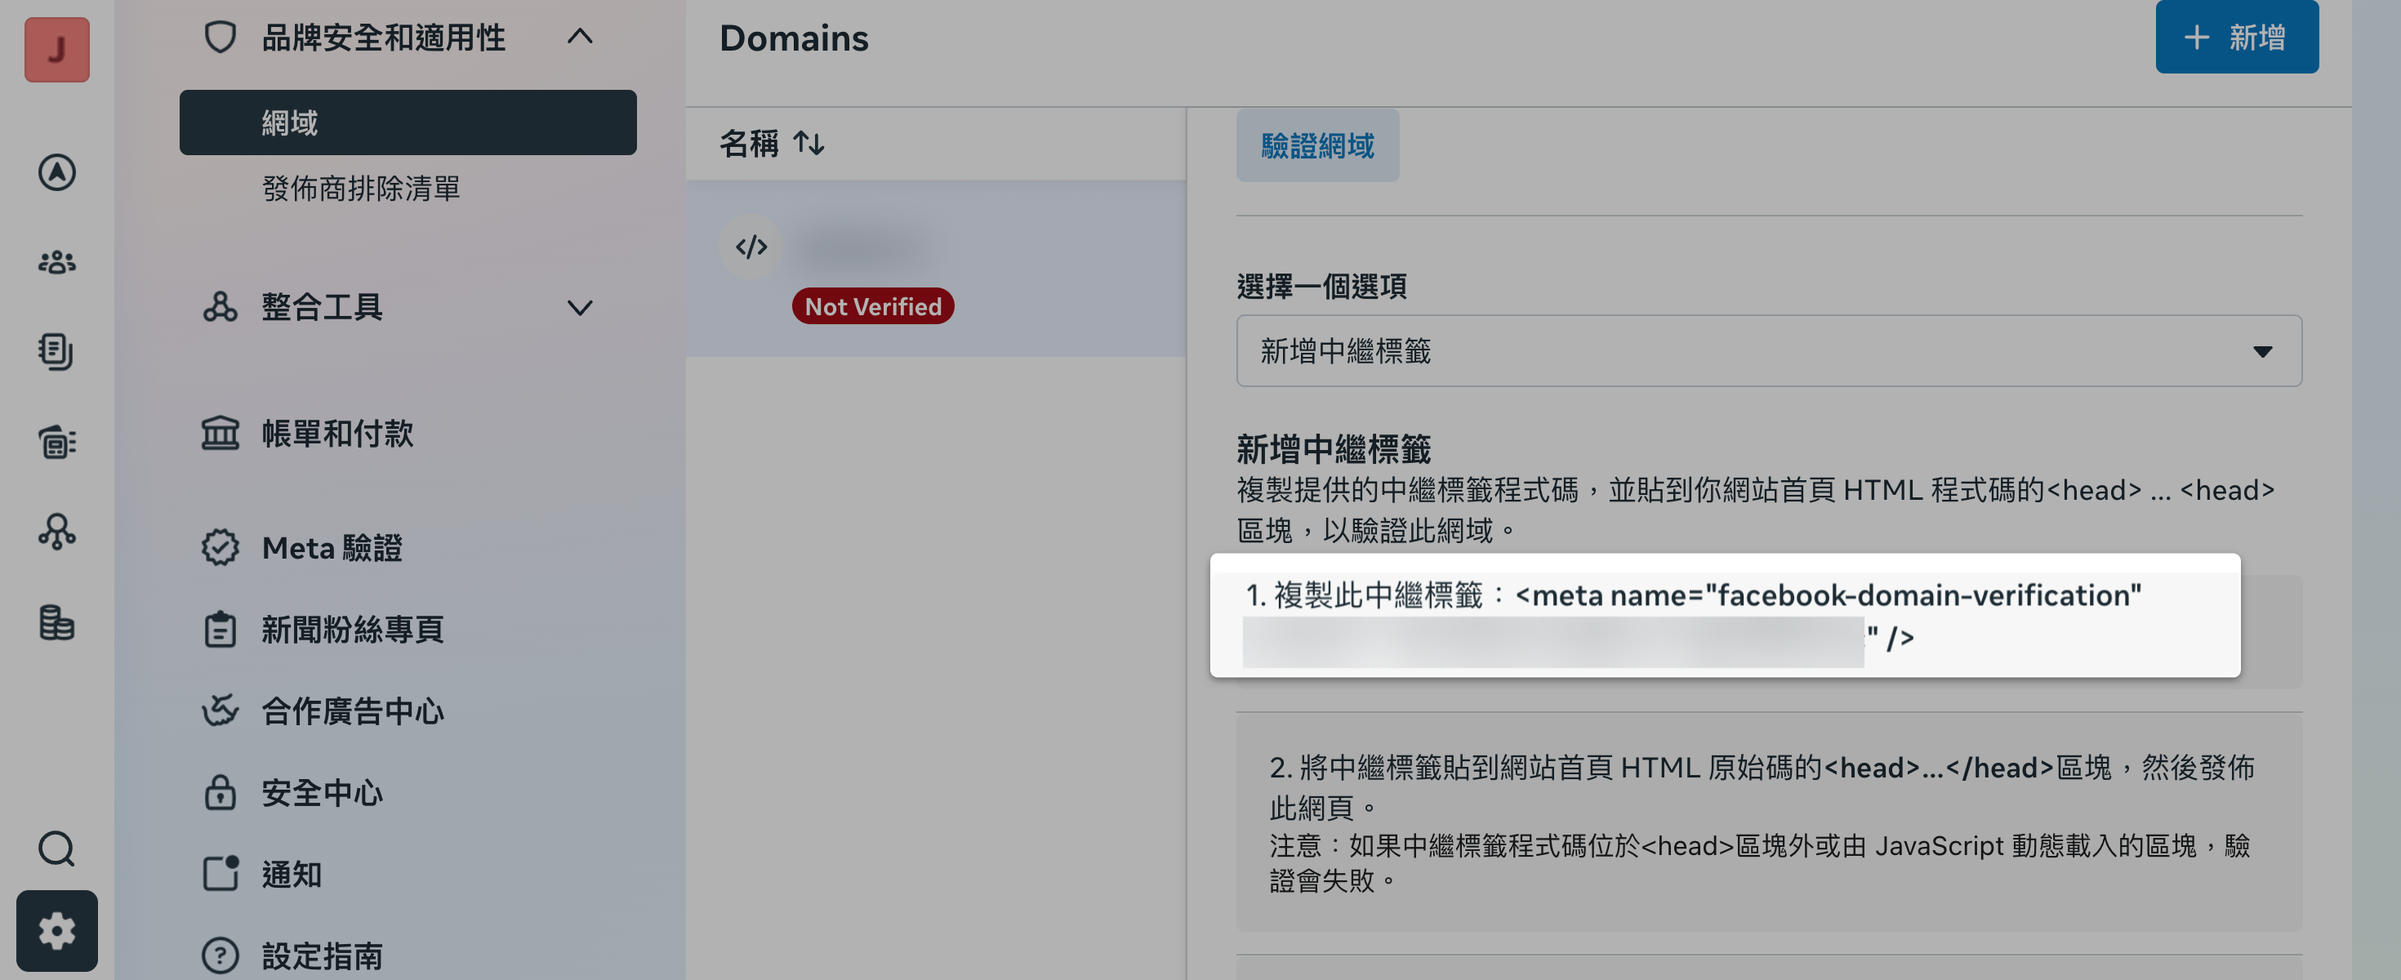
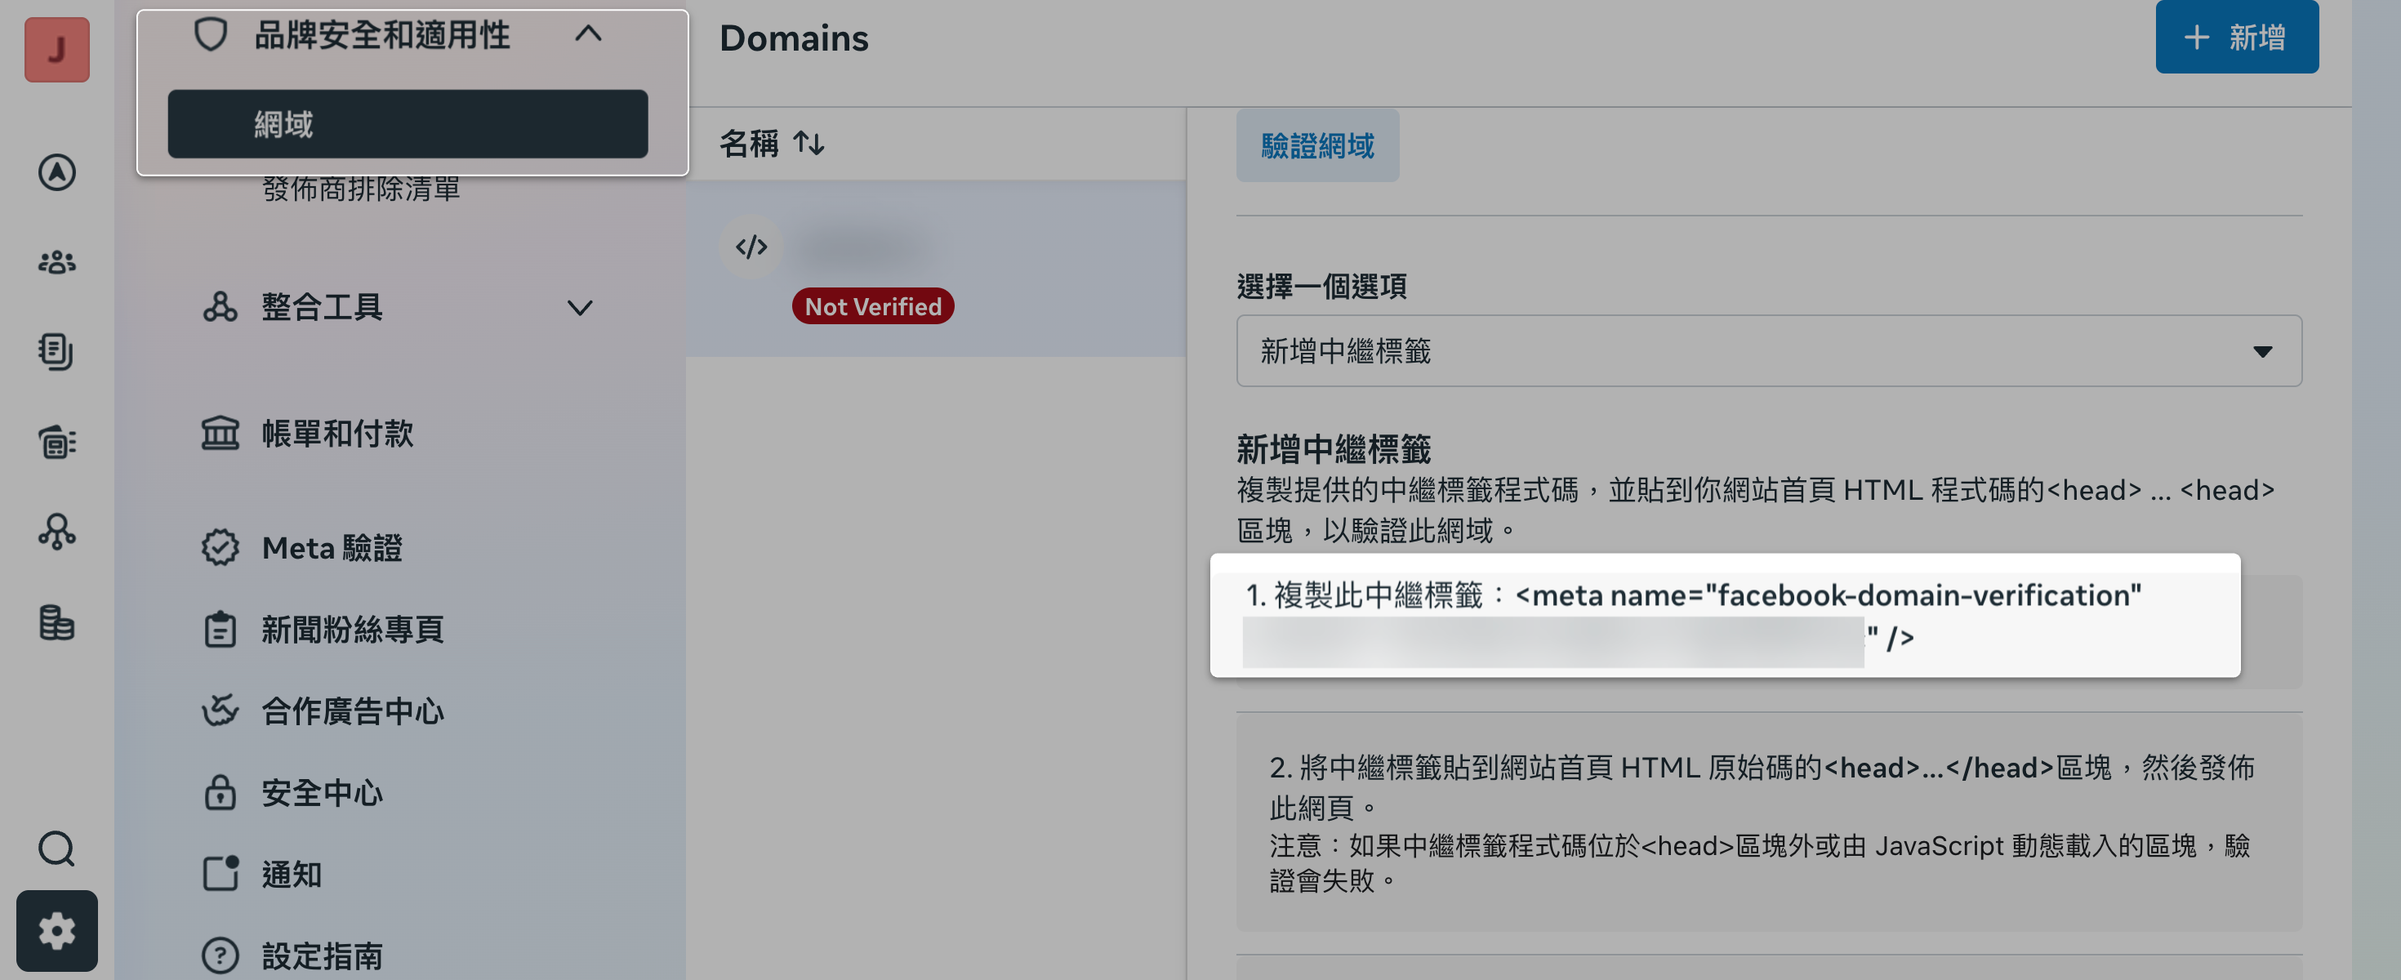
update

Changed region(s): [[0.0619, 0.0925, 0.2786, 0.185], [0.0619, 0.0, 0.2167, 0.0617]]

diff --git a/docs/ec/website-management/設定網站安全性.md b/docs/ec/website-management/設定網站安全性.md
@@ -2,7 +2,7 @@
 title: 設定網站安全性
 description: 設定網站及後台登入安全，包含會員密碼規則、個資隱碼、管理員IP白名單與二階段驗證等。
 created:
-last_modified: 2026-02-07
+last_modified: 2026-06-09 13:58
 lang: zh-TW
 permalink:
 type: tutorial
@@ -86,6 +86,258 @@ hide:
 { .subtitle }
 
 ![](../../assets/images/ec-管理中心-安全性設定.png){ .hero-page }
+
+
+# 安全性設定：保護後台帳號與顧客資料 { #intro-security }
+
+在「安全性設定」頁面集中管理後台登入防護與顧客資料保護，從 IP 白名單、自動登出到網站密碼，一頁完成你的網站資安設定。
+{ .subtitle }
+
+![安全性設定頁面](../assets/images/website-management-security-settings-hero.png){ .hero-page }
+
+「安全性設定」是 CYBERBIZ 後台的資安控制中心，協助你降低帳號被盜用、顧客個資外洩與惡意造訪的風險。頁面位於後台「管理中心」→「安全性設定」，並分為兩個分頁：「管理員登入」負責保護你與員工登入後台的安全，「會員安全」負責保護網站與顧客資料。
+
+!!! info "提示"
+    多數區塊需要你的後台帳號具備「設置」權限才會顯示；若你看不到某個區塊，通常是權限或方案的關係，詳見[使用前提與限制][prerequisites-security]{ data-preview }。
+
+## 頁面功能總覽 { #overview-security }
+
+下表整理兩個分頁中的所有資安功能，方便你一眼掌握各功能用途與開通條件：
+
+| 分頁 | 功能 | 用途 | 開通條件 |
+| :-- | :-- | :-- | :-- |
+| 管理員登入 | IP 白名單 | 只允許名單內的 IP 位址登入後台 | 多數方案皆內建 |
+| 管理員登入 | 瀏覽器 Cookie 驗證 IP 白名單 | 避免同一瀏覽器 IP 跳動時被強制重新登入 | 所有方案 |
+| 管理員登入 | 自動登出時間 | 後台閒置超過設定時間自動登出 | 所有方案 |
+| 管理員登入 | reCAPTCHA 驗證 | 後台登入加上機器人驗證 | 所有方案 |
+| 管理員登入 | 二階段驗證 | 登入時搭配驗證器動態驗證碼 | 所有方案 |
+| 管理員登入 | 管理員密碼規則 | 規範管理員密碼的長度與組成 | 加值功能（需聯繫客服開通） |
+| 會員安全 | 網站密碼 | 顧客需輸入密碼才能瀏覽網站 | 所有方案 |
+| 會員安全 | 會員密碼規則 | 規範會員密碼的長度與組成 | 加值功能（需聯繫客服開通） |
+| 會員安全 | 會員個資部分隱碼 | 將顧客姓名、手機、地址等以隱碼遮蔽 | 加值功能（需聯繫客服開通） |
+| 會員安全 | 訪問限制地區黑名單 | 封鎖特定地區顧客造訪前台 | 企業版／跨境電商方案 |
+
+!!! note "註釋"
+    「分店人員」帳號登入時只會看到「管理員登入」分頁，不會顯示「會員安全」分頁。
+
+## 使用前提與限制 { #prerequisites-security }
+
+開始設定前，請先確認下列條件：
+
+- [x] **「設置」權限**：除了二階段驗證（每位管理員都能為自己設定）之外，其餘區塊都需要你的帳號在「網站權限」中具備「設置」權限才能檢視與編輯。
+- [x] **方案／加值開通**：部分區塊需對應方案或加值功能才會出現，詳見下方折疊對照。
+- [x] **先確認自己的 IP**：要使用 IP 白名單前，建議先在區塊上方查看「您目前的 IP」，避免把自己擋在門外。
+
+??? plan "各功能的方案與開通條件"
+    | 功能 | 開通條件 |
+    | :-- | :-- |
+    | IP 白名單 | 多數方案皆內建 |
+    | 瀏覽器 Cookie 驗證 IP 白名單 | 所有方案 |
+    | 自動登出時間 | 所有方案 |
+    | reCAPTCHA 驗證 | 所有方案 |
+    | 二階段驗證 | 所有方案 |
+    | 網站密碼 | 所有方案 |
+    | 管理員／會員密碼規則 | 加值功能，需聯繫 CYBERBIZ 客服開通 |
+    | 會員個資部分隱碼 | 加值功能，需聯繫 CYBERBIZ 客服開通 |
+    | 訪問限制地區黑名單 | 企業版，或跨境電商相關方案 |
+
+## 操作步驟 { #operate-security }
+
+以下依「管理員登入」與「會員安全」兩個分頁，分別說明各區塊的操作方式。前往後台「管理中心」→「安全性設定」後，點選上方分頁即可切換。
+
+### 管理員登入｜設定 IP 白名單 { #operate-security-ip-whitelist }
+
+啟用後，只有名單內的 IP 位址能登入後台，適合在固定辦公室或固定網路環境營運的商家。
+
+1. **進入分頁：** 在「安全性設定」頁面點選「管理員登入」分頁，找到「白名單」區塊。
+2. **確認目前 IP：** 區塊會顯示「您目前的 IP」，請先記下，稍後務必把它加入名單。
+3. **新增信任 IP：** 點擊 **「新增 IP」** ，在「增加 IP 位址」視窗輸入要放行的位址，按 **「增加」** 完成。[^ip-format]
+4. **啟用白名單：** 開啟「啟用白名單」開關。若你目前的 IP 不在名單內，系統會跳出提醒[^whitelist-lockout]，確認後才會生效。
+5. **管理名單：** 名單以表格列出（每頁 5 筆），點擊每列的刪除圖示可移除位址。
+
+[^ip-format]: 支援 IPv4、IPv6 與 CIDR 網段格式；格式錯誤時欄位會顯示「IP 位址格式錯誤」。
+[^whitelist-lockout]: 啟用提醒文字為「您目前的IP位址不在白名單內，啟用後將立即被登出無法登入後台，確認要啟用？」。若你刪除的是目前所在的 IP，系統同樣會再次確認，避免把自己鎖在門外。
+
+---
+
+### 管理員登入｜瀏覽器 Cookie 驗證 IP 白名單 { #operate-security-cookie-whitelist }
+
+這項功能與上方的 IP 白名單不同：它不是限制誰能登入，而是讓你把「會頻繁變動的可信任 IP」加入名單，避免在同一瀏覽器操作時因 IP 跳動而被強制重新登入。一般狀況不需設定。
+
+1. **進入分頁：** 在「管理員登入」分頁找到「瀏覽器 Cookie 驗證 IP 白名單」區塊。
+2. **判斷是否需要：** 只有在你的網路服務商導致 IP 位址頻繁跳動、造成反覆被登出時才需設定；一般情況可略過。
+3. **新增可信任 IP：** 點擊 **「新增 IP」** ，於「增加 IP 位址」視窗輸入位址，按 **「增加」** 完成。
+4. **啟用功能：** 開啟「啟用瀏覽器 Cookie 驗證 IP 白名單」開關即可。
+
+---
+
+### 管理員登入｜設定自動登出時間 { #operate-security-logout-timer }
+
+設定後台閒置多久就自動登出，降低電腦無人看管時被他人誤用的風險。
+
+1. **進入分頁：** 在「管理員登入」分頁找到「自動登出時間」區塊。
+2. **選擇時間：** 從五個選項中擇一：**4小時**、**8小時**、**1天**、**3天**、**7天**。
+3. **儲存設定：** 點擊 **「更改」** 套用。
+
+!!! tip "技巧"
+    若多人共用電腦或在公共空間操作後台，建議選擇較短的閒置時間（如 4 小時），安全性較高。
+
+---
+
+### 管理員登入｜後台登入 reCAPTCHA 驗證 { #operate-security-recaptcha }
+
+在後台登入頁加上 Google reCAPTCHA 機器人驗證，減少自動化腳本嘗試破解帳號的風險。
+
+1. **進入分頁：** 在「管理員登入」分頁找到「reCAPTCHA 驗證」區塊。
+2. **開啟驗證：** 開啟「啟用 reCAPTCHA 驗證」開關，設定即時生效。下次登入後台時就會出現 reCAPTCHA 驗證。
+
+---
+
+### 管理員登入｜二階段驗證 { #operate-security-2fa }
+
+二階段驗證（2FA）是防止帳號被盜用最有效的防線：即使密碼外洩，沒有手機驗證器產生的動態驗證碼也無法登入。
+
+1. **進入分頁：** 在「管理員登入」分頁找到「二階段驗證設定」區塊。
+2. **開啟功能：** 開啟「啟用二階段驗證步驟。」開關，畫面會展開「安裝步驟」。
+3. **安裝驗證器：** 在手機安裝 Authenticator 應用程式（提供 iOS 與 Android 下載）。
+4. **綁定帳號：** 用 Authenticator 掃描畫面上的 QR code，或手動輸入畫面提供的代碼。
+5. **完成驗證：** 將 Authenticator 顯示的六位數驗證碼填入「驗證碼」欄位，即完成啟用。
+6. **保存備用碼：** 啟用後系統會產生「驗證備用碼」，請妥善保存[^backup-code]，當無法使用驗證器時可用來登入。
+
+[^backup-code]: 為了安全，備用碼只會顯示這一次、每組僅能使用一次；遺失時可在區塊內「重新產生備用碼」。停用二階段驗證時，需先輸入使用者密碼確認。
+
+---
+
+### 管理員登入｜管理員密碼規則 { #operate-security-admin-password-rule }
+
+規範所有管理員帳號的密碼強度。此區塊需加值開通後才會顯示。
+
+1. **進入分頁：** 在「管理員登入」分頁找到「管理員密碼規則」區塊。
+2. **設定長度限制：** 「長度限制」為必填，輸入密碼的最小與最大字元數（系統預設為 6 至 20）。
+3. **加上組成要求：** 視需要勾選 **包含數字**、**包含大寫字母**、**包含小寫字母**、**包含特殊符號**[^special-char]。
+4. **儲存設定：** 點擊 **「儲存」** 套用。
+
+[^special-char]: 特殊符號不含空白、星號、單引號與雙引號。
+
+---
+
+### 會員安全｜設定網站密碼 { #operate-security-website-password }
+
+為整個網站前台加上密碼，只有知道密碼的顧客才能瀏覽，適合尚未公開上線、或僅對特定客群開放的網站。
+
+1. **進入分頁：** 在「安全性設定」頁面點選「會員安全」分頁，找到「網站密碼」區塊。
+2. **啟用密碼保護：** 勾選 **「網站密碼」**。
+3. **設定密碼：** 在「密碼」欄位輸入密碼（上限 64 個字元）。
+4. **（選填）留言給顧客：** 在「傳達顧客的訊息」輸入提示文字（上限 255 個字元），顧客在輸入密碼的頁面會看到這段訊息。
+5. **儲存設定：** 點擊 **「儲存」** 套用。
+
+!!! note "註釋"
+    啟用後，系統會提示「您的網站目前使用密碼才能被訪問，若要所有顧客可瀏覽，請移除勾選『網站密碼』。」。要重新對外公開時，取消勾選「網站密碼」並儲存即可。
+
+---
+
+### 會員安全｜會員密碼規則 { #operate-security-customer-password-rule }
+
+規範顧客註冊或設定會員密碼時的強度，操作方式與管理員密碼規則相同。此區塊需加值開通後才會顯示。
+
+1. **進入分頁：** 在「會員安全」分頁找到「會員密碼規則」區塊。
+2. **設定長度限制：** 「長度限制」為必填，輸入會員密碼的最小與最大字元數。
+3. **加上組成要求：** 視需要勾選 **包含數字**、**包含大寫字母**、**包含小寫字母**、**包含特殊符號**。
+4. **儲存設定：** 點擊 **「儲存」** 套用。
+
+---
+
+### 會員安全｜會員個資部分隱碼 { #operate-security-pdpa }
+
+將顧客的姓名、手機、地址等個資以隱碼（如星號）遮蔽，可分別套用在不同位置。此功能需加值開通後才會顯示。
+
+1. **進入分頁：** 在「安全性設定」頁面點選「會員安全」分頁，找到「會員個資部分隱碼」區塊。
+2. **選擇隱碼範圍：** 勾選要套用隱碼的位置 —— **網站前台個資部份隱碼**、**網站後台個資部份隱碼**、**訂單明細列印**[^pdpa-scope]。
+3. **儲存設定：** 點擊 **「儲存」** 套用。
+
+[^pdpa-scope]: 三個範圍各自對應不同的加值項目，只有已開通的範圍才會顯示對應勾選項。
+
+---
+
+### 會員安全｜訪問限制地區黑名單 { #operate-security-restricted-locations }
+
+封鎖特定地區的顧客造訪網站前台，常用於跨境經營時排除特定市場。此功能為企業版／跨境電商方案專屬。
+
+1. **進入分頁：** 在「會員安全」分頁找到「訪問限制地區黑名單」區塊。
+2. **選擇限制地區：** 點擊「限制地區」欄位，於選單中勾選要封鎖的國家或地區。
+3. **儲存設定：** 點擊 **「儲存」** 套用。設定後，名單中地區的顧客將無法造訪你的網站前台。
+
+## 重要規範與限制 { #specs-security }
+
+- IP 白名單與瀏覽器 Cookie 驗證 IP 白名單皆支援 IPv4、IPv6 與 CIDR 網段格式。
+- 啟用 IP 白名單前，務必先把目前所在的 IP 加入名單，否則啟用後會立即被登出且無法登入。
+- 「瀏覽器 Cookie 驗證 IP 白名單」僅在同一瀏覽器 IP 頻繁跳動時才需設定，一般情況不需開啟。
+- 自動登出時間最短為 4 小時，最長為 7 天。
+- 啟用「網站密碼」後，整個前台都需要輸入密碼才能瀏覽；要對外公開時記得取消勾選。
+- 二階段驗證備用碼只會顯示一次，請在啟用當下立即保存。
+
+## 後續操作 { #next-steps-security }
+
+下列功能已有更完整的專屬教學文件，可延伸閱讀：
+
+<div class="grid cards" markdown>
+
+- :lucide-shield-check:{ .lg }  
+  [__二階段驗證設定教學__](https://www.cyberbiz.io/support/?p=12650)  
+  驗證器安裝、QR Code 綁定與備用碼保存的完整教學。
+
+- :lucide-eye-off:{ .lg }  
+  [__會員個資部分隱碼設定教學__](../customers/pdpa-masking.md)  
+  前台、後台與訂單明細列印三種隱碼範圍的詳細說明。
+
+- :lucide-globe-lock:{ .lg }  
+  [__訪問限制地區黑名單設定教學__](../website-management/restricted-locations.md)  
+  選擇限制地區與套用範圍的詳細步驟。
+
+</div>
+
+## 常見問題 { #faq-security }
+
+??? quote "啟用白名單後把自己鎖在後台外面了，怎麼辦？"
+    [](){ #faq-security-whitelist-lockout }
+    啟用白名單或刪除目前 IP 前，系統都會跳出提醒，請務必先確認自己目前的 IP 已在名單中。
+
+    - 啟用前：先在「白名單」區塊查看「您目前的 IP」，並用 **「新增 IP」** 把它加入名單，再開啟開關。
+    - 若已被鎖在外面無法登入，請聯繫 CYBERBIZ 客服協助處理。
+
+??? quote "「白名單」和「瀏覽器 Cookie 驗證 IP 白名單」有什麼不同？"
+    [](){ #faq-security-two-whitelists }
+    兩者用途完全不同：
+
+    - **白名單**：限制「誰能登入後台」，只有名單內的 IP 才能登入，是主動的存取控管。
+    - **瀏覽器 Cookie 驗證 IP 白名單**：解決「同一瀏覽器 IP 跳動時被強制重新登入」的困擾，屬於便利性設定，一般狀況不需開啟。
+
+??? quote "為什麼我在安全性設定看不到某些區塊？"
+    [](){ #faq-security-missing-blocks }
+    區塊是否顯示取決於你的權限與方案：
+
+    - 多數區塊需要你的帳號具備「設置」權限，請至「網站權限」確認。
+    - 管理員／會員密碼規則、會員個資部分隱碼為加值功能，需聯繫客服開通。
+    - 訪問限制地區黑名單為企業版／跨境電商方案專屬。
+
+??? quote "設定了自動登出時間，多久會被登出？"
+    [](){ #faq-security-logout-timing }
+    當後台閒置（無操作）超過你設定的時間就會自動登出，可選 4小時、8小時、1天、3天或 7天。若希望安全性更高，建議選擇較短的時間。
+
+??? quote "啟用網站密碼後，顧客會看到什麼？"
+    [](){ #faq-security-website-password-view }
+    顧客造訪網站時會被要求輸入密碼，只有輸入正確密碼才能瀏覽。若你有在「傳達顧客的訊息」填寫文字，顧客也會在輸入密碼的頁面看到這段說明。要重新對外公開時，取消勾選「網站密碼」並儲存即可。
+
+## 參考資料 { #reference-security }
+
+- [二階段驗證設定教學](https://www.cyberbiz.io/support/?p=12650)
+- 會員個資部分隱碼設定教學（專屬文件，路徑待補）
+- 訪問限制地區黑名單設定教學（專屬文件，路徑待補）
+
+
+
+
+---
 
 ## 安全性設定說明
 

diff --git a/docs/ec/website-appearance/pages-and-content/custom-pages.md b/docs/ec/website-appearance/pages-and-content/custom-pages.md
@@ -2,7 +2,7 @@
 title: "設定與管理自訂頁面"
 description: "建立、設定與管理自訂頁面，包含基本設定、區塊設計與前台顯示方式。"
 created: "2025-03-03 15:30"
-last_modified: 2026-06-09 11:31
+last_modified: 2026-06-09 13:16
 lang: "zh-TW"
 type: "tutorial"
 status: ""
@@ -124,7 +124,7 @@ hide:
 
 以下依常見情境分別說明。所有操作皆從後台「網站外觀」>「自訂頁面管理」進入。
 
-## 增自訂頁面 { #operate-custom-pages-create
+### 新增自訂頁面 { #operate-custom-pages-create
 
 1. **進入自訂頁面管理:** 前往後台「網站外觀」>「自訂頁面管理」。
 2. **新增頁面:** 點擊頁面右上角的 **「新增頁面」** 按鈕。
@@ -133,7 +133,7 @@ hide:
 
 ---
 
-### 情境二、編輯頁面內容 { #operate-custom-pages-edit }
+### 編輯頁面內容 { #operate-custom-pages-edit }
 
 
 
@@ -169,7 +169,7 @@ hide:
 
 ---
 
-### 情境三、發布或下架頁面 { #operate-custom-pages-publish }
+### 發布或下架頁面 { #operate-custom-pages-publish }
 
 頁面建立後預設不一定公開,您可以隨時切換顯示狀態:
 
@@ -182,7 +182,7 @@ hide:
 
 ---
 
-### 情境四、複製頁面 { #operate-custom-pages-duplicate }
+### 複製頁面 { #operate-custom-pages-duplicate }
 
 當您要製作版面相近的頁面時,可直接複製既有頁面再修改:
 
@@ -192,7 +192,7 @@ hide:
 
 ---
 
-### 情境五、刪除頁面 { #operate-custom-pages-delete }
+### 刪除頁面 { #operate-custom-pages-delete }
 
 1. 在列表中找到要刪除的頁面,點擊 **「刪除」** 圖示。
 2. 系統會跳出確認視窗,顯示「確定要刪除「頁面名稱」嗎?」並提醒 **「刪除後無法復原」**。

diff --git a/docs/ec/integrations/fb/mbe/設定 FBE 網域驗證.md b/docs/ec/integrations/fb/mbe/設定 FBE 網域驗證.md
@@ -2,7 +2,7 @@
 title: 設定 FBE 網域驗證
 description: 在企業管理平台中完成網域驗證。
 created: 2026-04-10 14:50
-last_modified: 2026-06-08 17:50
+last_modified: 2026-06-09 14:19
 lang: zh-TW
 type: tutorial
 status: ""
@@ -141,7 +141,7 @@ hide: []
 
 ## 中繼標籤驗證 (Meta-tag)
 
-1.  **取得代碼**：在企業管理平台的「網域」頁面點選「中繼標籤驗證」，複製整段代碼。
+1.  **取得代碼**：在企業管理平台中「品牌安全和適用性」裡的「網域」頁面點選「中繼標籤驗證」，複製整段代碼。
 
     ![企業管理平台-中繼標籤代碼](../../../../assets/images/ec-第三方整合-meta企業管理平台-中繼標籤紀錄.png)
 
